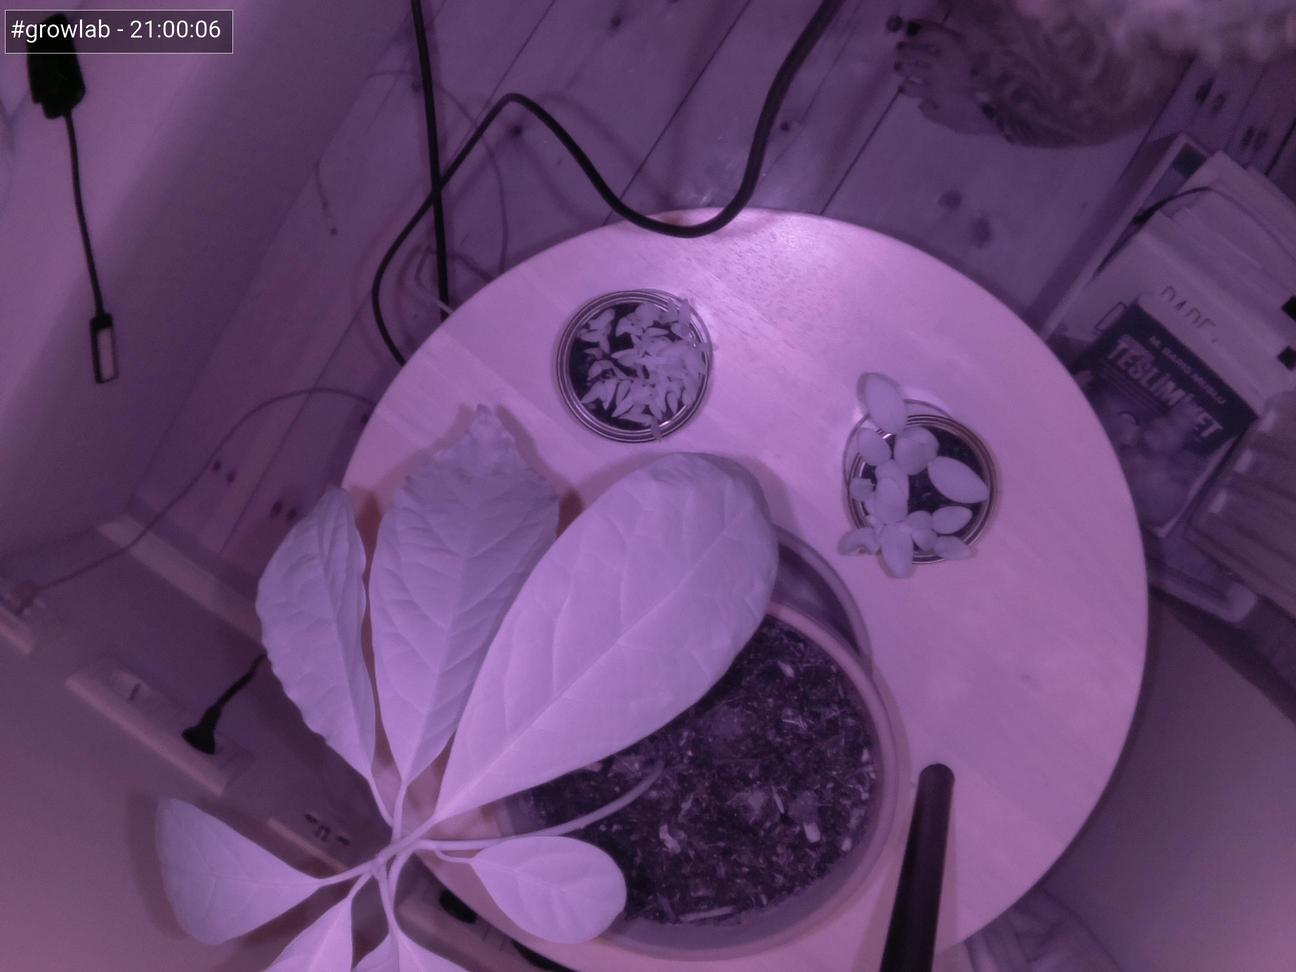
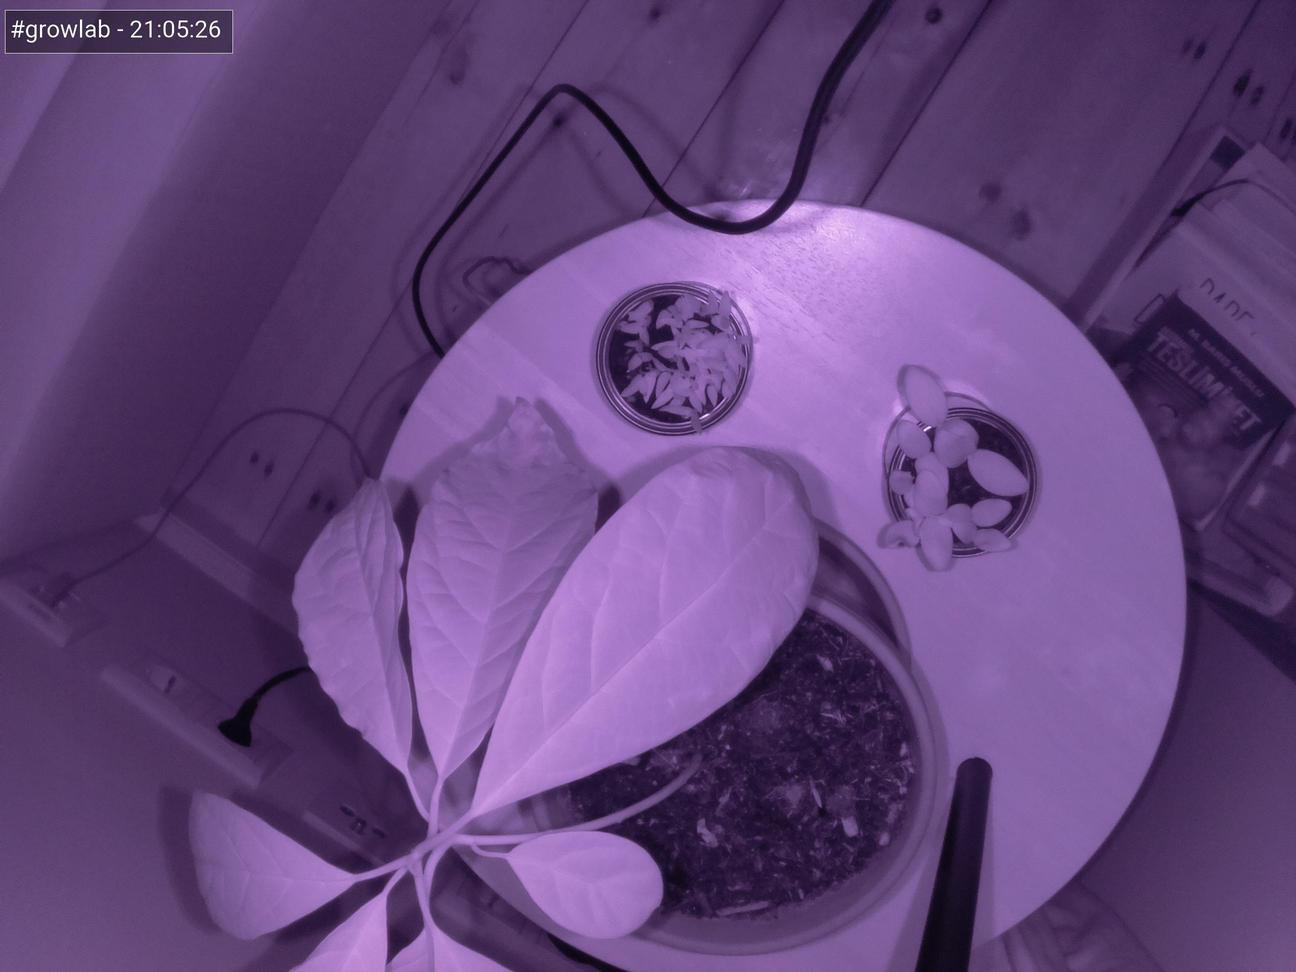
Update images at Sat Jul 31 21:05:35 BST 2021

diff --git a/docs/index.html b/docs/index.html
@@ -47,7 +47,7 @@
                         <tbody>
                             <tr>
                                 <td>Time</td>
-                                <td>21:00:06</td>
+                                <td>21:05:26</td>
                             </tr>
                             <tr>
                                 <td>Temperature</td>
@@ -67,7 +67,7 @@
 
                 <h5>Latest image</h5>
                 <div style="width: 85%;">
-                            <img class="figure-img img-fluid rounded" src="./preview.jpg?uid=1627761614.916984">
+                            <img class="figure-img img-fluid rounded" src="./preview.jpg?uid=1627761934.8939574">
                 </div>
             </div>
         </div>
